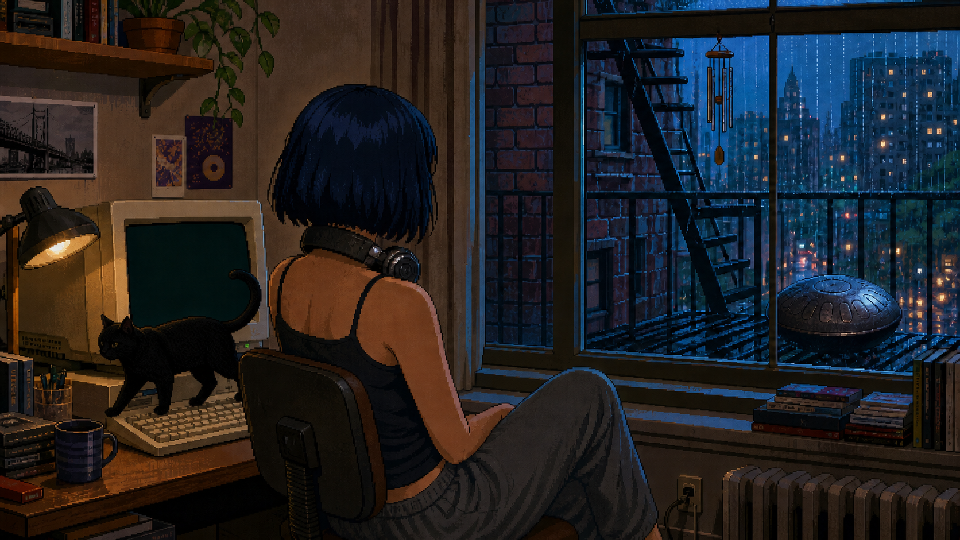
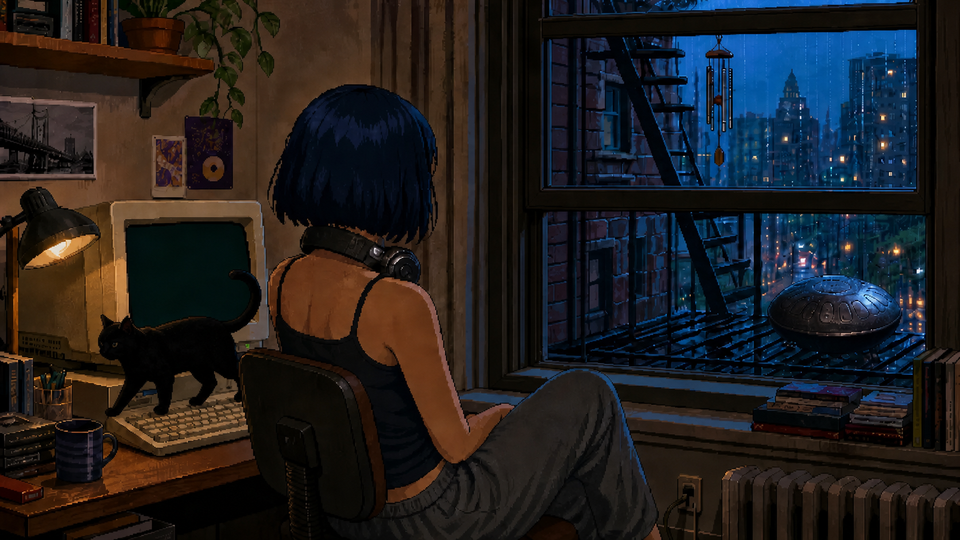
Unify AVENUE's window art across all four room scenes
CODEX redrew the window for room-lap/glance/keyboard/windowsill.webp so
they share the same frame structure - room-keyboard.webp no longer has
its own extra center mullion. Drop the keyboard-only display:none that
was hiding the rain pane there as a stopgap, since the same .rainSky
clip-path now lines up correctly against all four scenes.

diff --git a/app/bit/RainChimeGame.module.css b/app/bit/RainChimeGame.module.css
@@ -33,12 +33,6 @@
    Not worth the risk in a band this cramped - no rain pane renders below
    the crossbar at all; the Steel Tongue Drum's occasional hits are audio
    only. */
-/* room-keyboard.webp's window has its own extra center mullion the other
-   three scenes don't (a separate art inconsistency, not yet fixed) -
-   measuring rainSky against the other three would draw rain straight over
-   that bar in this one scene, so it's hidden for it rather than patched
-   around a mismatch the art itself needs to resolve. */
-.artboard[data-scene="keyboard"] .rainSky { display: none; }
 .drop { --x: 50; --delay: 0; --duration: 1; --length: 18; position: absolute; top: -18%; left: calc(var(--x) * 1%); width: 1px; height: calc(var(--length) * 1px); opacity: .42; background: linear-gradient(180deg, transparent, #bde6f0); animation: fall calc(var(--duration) * 1s) linear calc(var(--delay) * -1s) infinite; }
 @keyframes fall { to { transform: translate3d(-8px, 360px, 0); } }
 .terminal { position: absolute; z-index: 4; left: 13.8%; top: 42.5%; display: flex; align-items: center; gap: .28em; color: #62c77c; font: 700 clamp(4px, .58vw, 9px)/1 "Courier New", monospace; text-shadow: 0 0 5px rgba(76, 220, 116, .62); pointer-events: none; }
